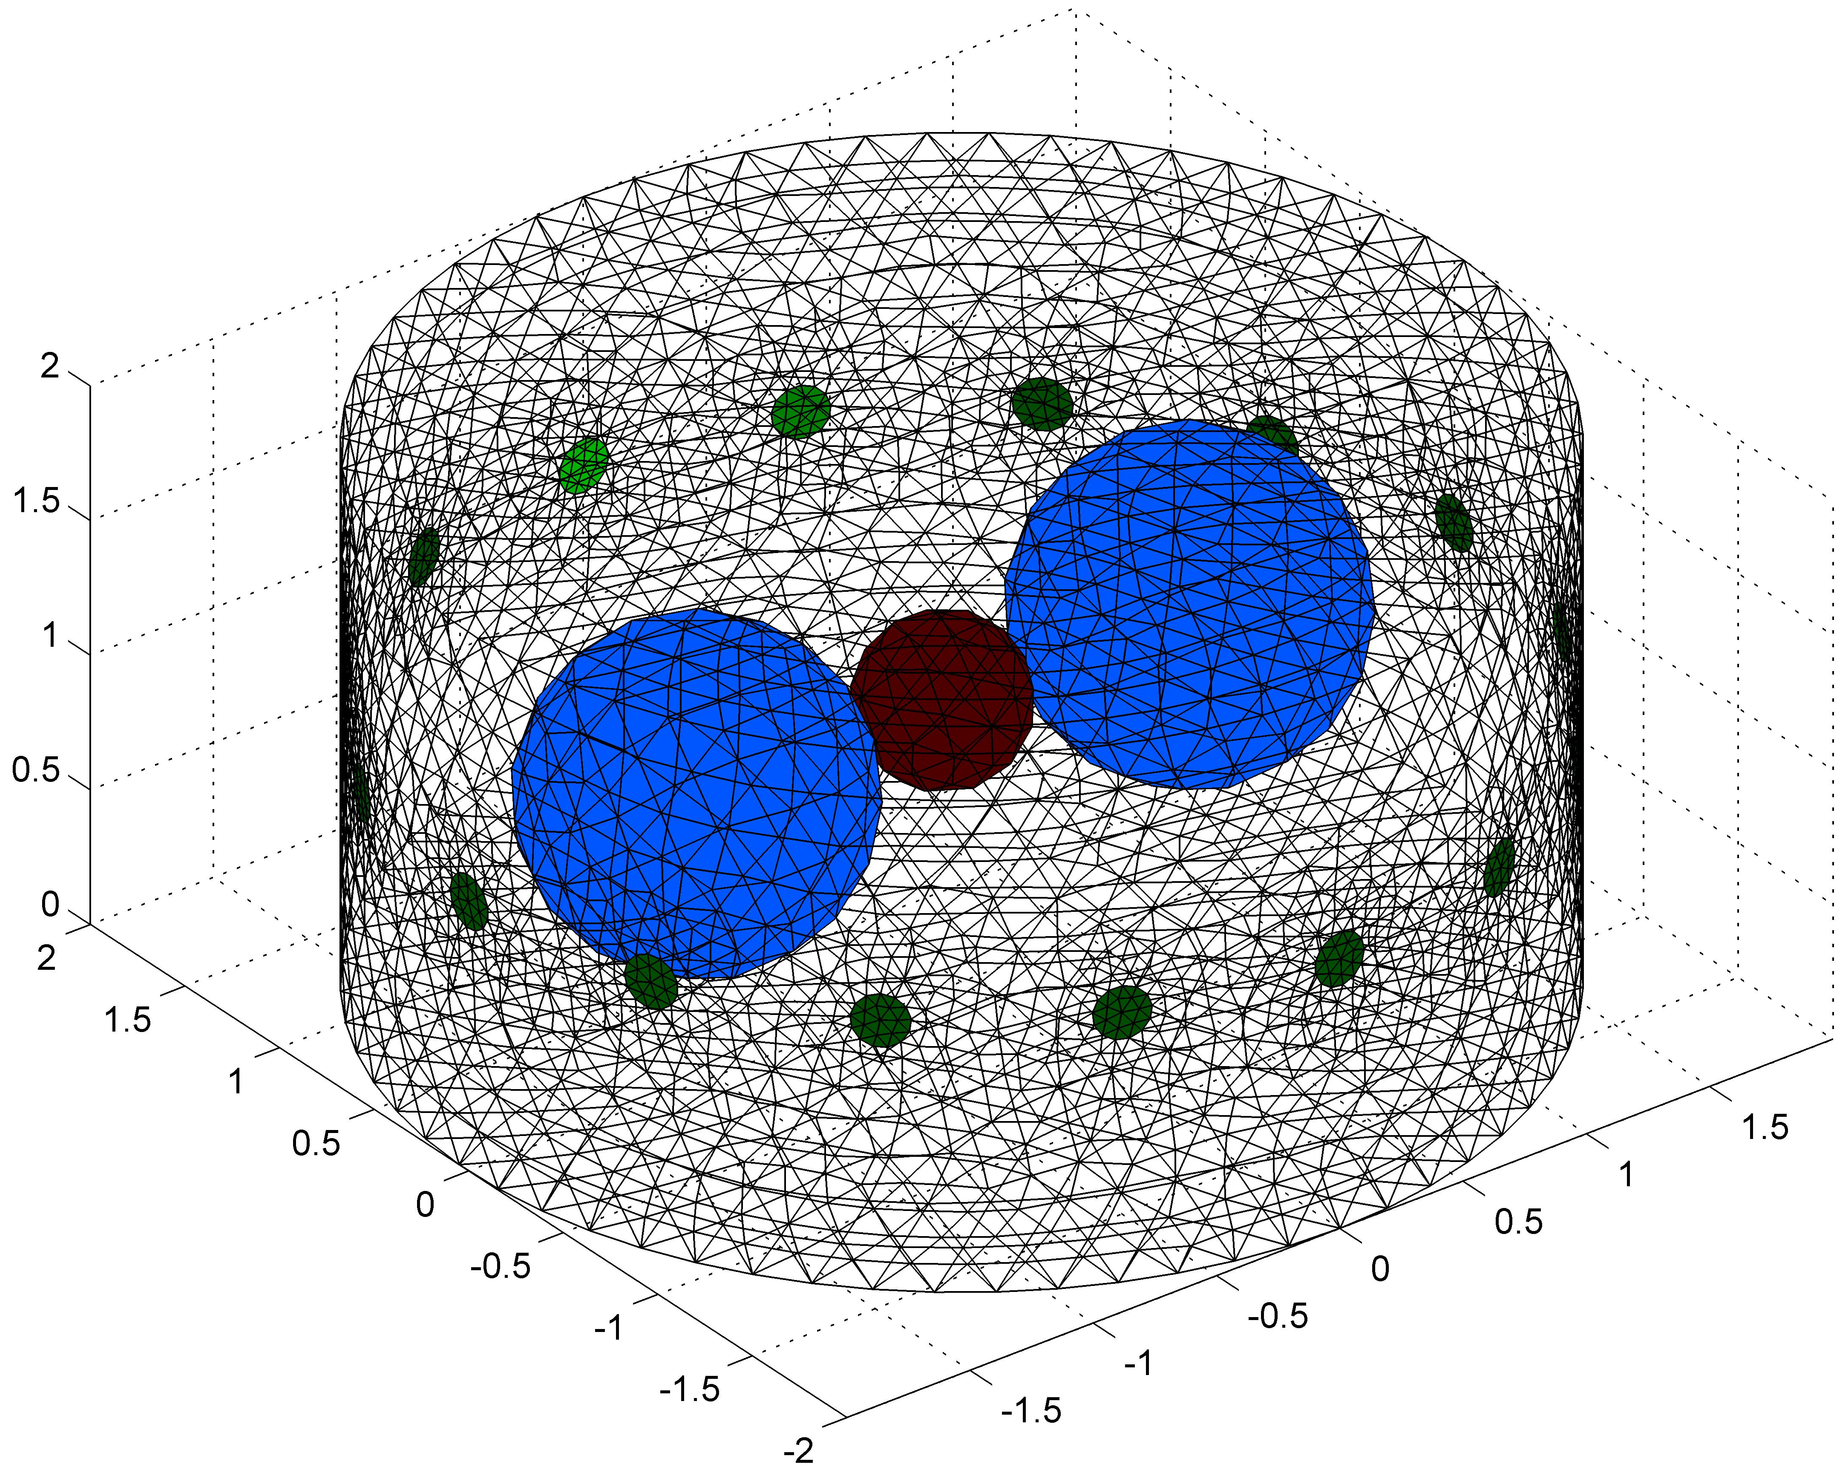
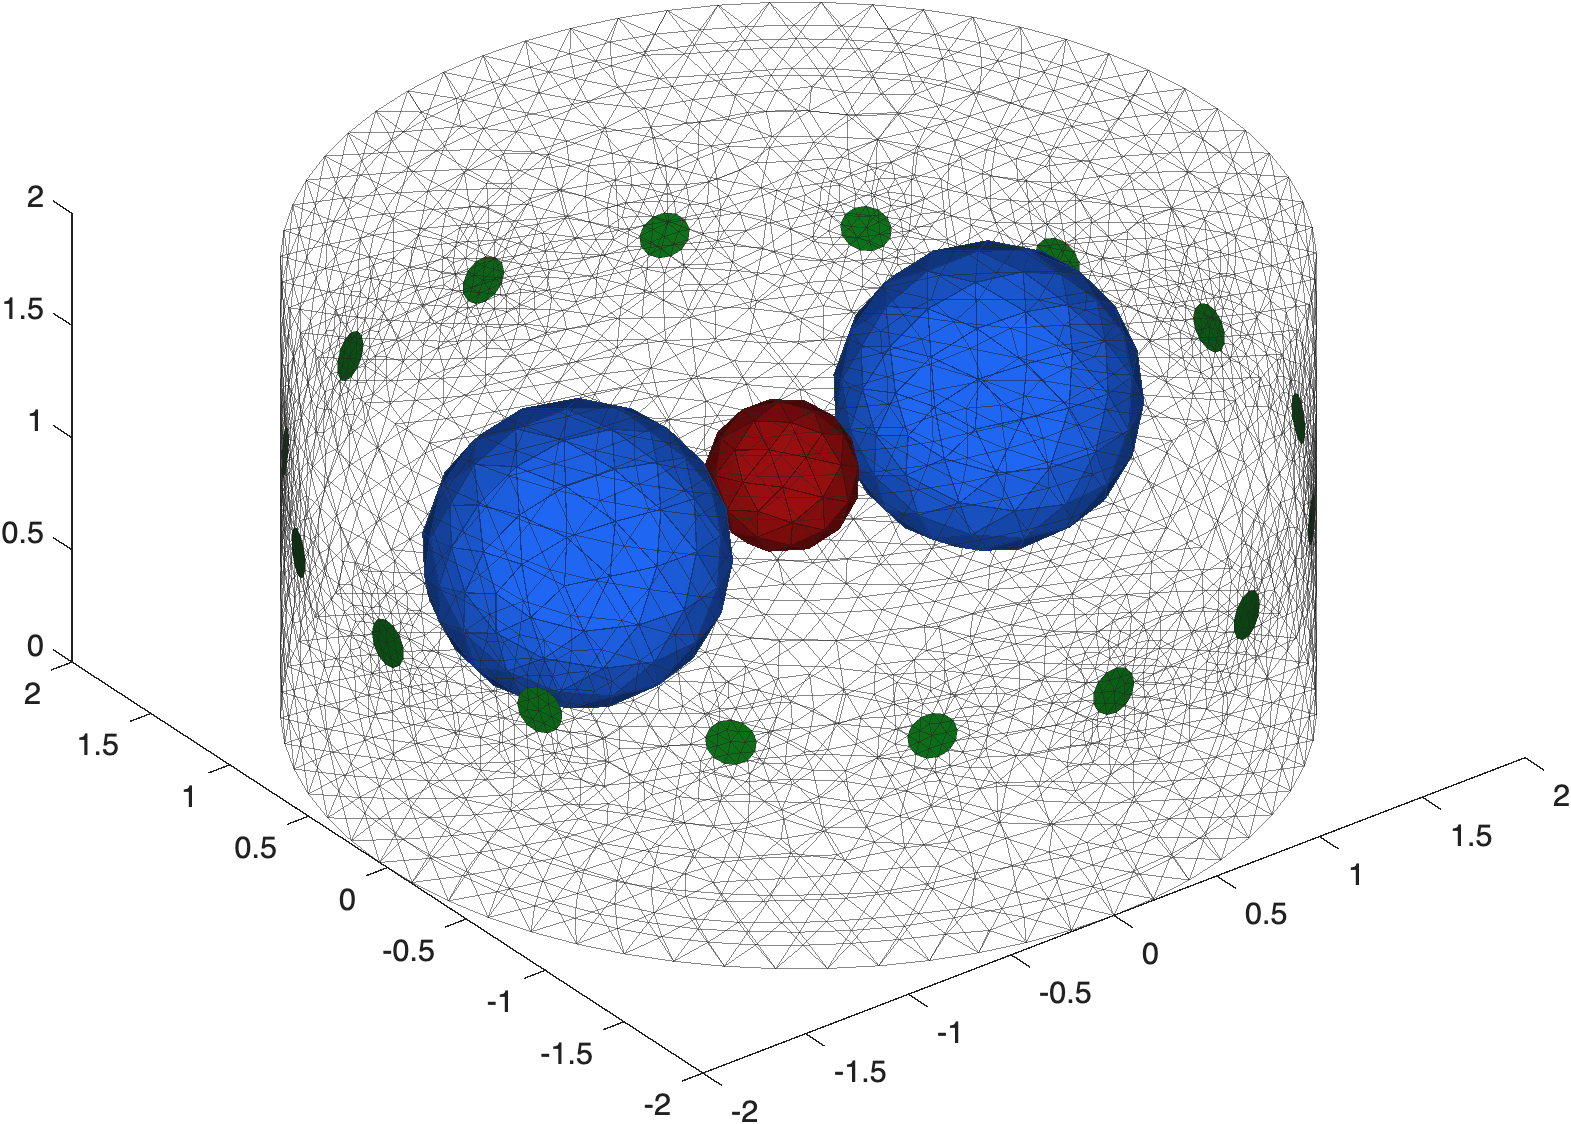
Draw Figure 1(a) from the phantom mesh; stop shipping a previously published render
figures/fig1a_phantom.png, and through it panel (a) of figures/fig_phantom.png
and the phantom in figures/graphical_abstract.png, was the 3-D render first
published as Fig. (2) of Cheng, Su and Ko 2022 (Curr Med Imaging 18:1396,
Bentham), imported by prep_fig1a.m from the authors' slide deck (3bbfda1). It
should not be redistributed here under MIT.

- eit_show_phantom.m: draw3d() now draws panel (a) from the mesh it builds
  (outer surface as wireframe, lungs and heart as solid surfaces filtered to
  their spheres, electrodes as surface patches; inclusion edges as explicit
  segments, because MATLAB's software renderer in batch mode drew two heart
  edges as stray rays). It writes fig1a_phantom.png and the composite. The
  import of an external render is removed.
- prep_fig1a.m removed.
- eit_graphical_abstract.m reads fig1a_phantom.png from the working folder
  explicitly, so a copy elsewhere on the path cannot be picked up.
- figures/: the three images regenerated (MATLAB R2026a, EIDORS v3.8).
  Panels (b) to (e) of Figure 1 have the same content; tick spacing on (e)
  and a few slice pixel edges differ (re-meshing).
- README: Figure 1 row and a note that the submitted manuscript's panel (a)
  is the published render and this repository's is not.

The earlier image remains in the history (3bbfda1 onward). Rewriting history
would change f0ade60 (tag v1.0), which the companion repository cites.

diff --git a/src/eit_show_phantom.m b/src/eit_show_phantom.m
@@ -21,17 +21,13 @@ img06 = build(0.6, RH, SIG_L, SIG_H, stim);
 % show_fem draws stray slivers outside the axes that survive both clipping
 % and rasterisation, so the 3-D views are drawn directly from the mesh with
 % trisurf instead. All geometry is taken from the model itself.
-% Panel (a) may be supplied as a ready-made render. draw3d() below produces
-% one from the mesh, but the authors' own export is clearer at print size, so
-% it is used when present.
-p3d = fullfile(tmp,'a.png');
-ext = 'fig1a_phantom.png';
-if exist(ext,'file')
-    p3d = ext;
-    fprintf('panel (a): using supplied render %s\n', ext);
-else
-    draw3d(img06, p3d);
-end
+% Panel (a) is drawn from the mesh built above by draw3d() and also written on
+% its own as fig1a_phantom.png (used by eit_graphical_abstract). Until
+% 2026-10-31 this panel imported a render first published as Fig. (2) of
+% Cheng, Su and Ko 2022 (Curr Med Imaging 18:1396); that import and
+% prep_fig1a.m were removed so that the repository holds only its own images.
+p3d = fullfile(pwd,'fig1a_phantom.png');
+draw3d(img06, p3d);
 
 %% --- composite -----------------------------------------------------------
 xax = -2:4/63:2;
@@ -95,30 +91,54 @@ function img = build(rl, RH, SIG_L, SIG_H, stim)
 end
 
 function draw3d(img, outfile)
+% Panel (a): the outer surface mesh as a wireframe, the lung and heart regions
+% as solid surfaces, the electrodes as their own surface patches. Drawn from the
+% model built here; no external render is used.
 f = img.fwd_model;  N = f.nodes;
 sig = img.elem_data;
-isL  = abs(sig-0.5) < 1e-9;                % lungs
-isH  = abs(sig-2.0) < 1e-9;                % heart
-
-h = figure('Color','w','Position',[0 0 760 660],'Visible','off');
-% outer surface, translucent
-% Use the boundary Netgen/EIDORS stored: find_boundary() returns fewer faces
-% (5394 vs 5988) and draws stray edges across the axes.
-trisurf(f.boundary, N(:,1),N(:,2),N(:,3), ...
-        'FaceColor',[0.82 0.84 0.88],'FaceAlpha',0.16, ...
-        'EdgeColor',[0.45 0.45 0.5],'EdgeAlpha',0.20); hold on
-% lungs and heart
-trisurf(find_boundary(f.elems(isL,:)), N(:,1),N(:,2),N(:,3), ...
-        'FaceColor',[0.20 0.32 0.80],'FaceAlpha',0.95,'EdgeColor','none');
-trisurf(find_boundary(f.elems(isH,:)), N(:,1),N(:,2),N(:,3), ...
-        'FaceColor',[0.85 0.18 0.18],'FaceAlpha',0.98,'EdgeColor','none');
-% electrodes
-for k = 1:numel(f.electrode)
-    c = mean(N(f.electrode(k).nodes,:),1);
-    plot3(c(1),c(2),c(3),'o','MarkerSize',8, ...
-          'MarkerFaceColor',[0.10 0.62 0.20],'MarkerEdgeColor','k');
+isL = abs(sig-0.5) < 1e-9;  isH = abs(sig-2.0) < 1e-9;
+h = figure('Color','w','Position',[0 0 900 760],'Visible','off');
+ax = axes(h); hold(ax,'on');
+trisurf(f.boundary, N(:,1),N(:,2),N(:,3), 'Parent',ax, ...
+        'FaceColor','none','EdgeColor',[0.15 0.15 0.15],'EdgeAlpha',0.55,'LineWidth',0.35);
+% inclusion surfaces: boundary faces of each region, kept only if every node lies
+% on that sphere (find_boundary also returns a few faces spanning the region)
+sph = {[ 1 0.1 1 0.6], [-1 0.1 1 0.6], [0 0.1 1 0.3]};
+col = {[0.12 0.40 0.95], [0.12 0.40 0.95], [0.60 0.06 0.06]};
+reg = {isL, isL, isH};
+for s = 1:3
+    F  = find_boundary(f.elems(reg{s},:));
+    c  = sph{s}(1:3);  r = sph{s}(4);
+    d  = sqrt(sum((N - c).^2, 2));
+    F  = F(all(abs(d(F) - r) < 0.12*r + 0.02, 2), :);
+    % faces only, then the facet edges as explicit line segments: the software
+    % renderer used in batch mode draws a few heart edges of a patch as long
+    % stray rays, explicit segments do not
+    patch(ax,'Faces',F,'Vertices',N,'FaceColor',col{s},'EdgeColor','none', ...
+          'FaceLighting','flat','AmbientStrength',0.55);
+    E = unique(sort([F(:,[1 2]); F(:,[2 3]); F(:,[3 1])],2),'rows');
+    X = [N(E(:,1),1) N(E(:,2),1) nan(size(E,1),1)].';
+    Y = [N(E(:,1),2) N(E(:,2),2) nan(size(E,1),1)].';
+    Z = [N(E(:,1),3) N(E(:,2),3) nan(size(E,1),1)].';
+    % lift the edges a hair off the surface toward the sphere's outside so they are not hidden
+    plot3(ax, c(1)+(X-c(1))*1.003, c(2)+(Y-c(2))*1.003, c(3)+(Z-c(3))*1.003, '-', ...
+          'Color',col{s}*0.55,'LineWidth',0.4);
 end
-axis equal off; view(-37,20); camlight headlight; lighting gouraud; material dull
-xlim([-2.1 2.1]); ylim([-2.1 2.1]); zlim([-0.05 2.05]);
-exportgraphics(h,outfile,'Resolution',200,'ContentType','image'); close(h);
+for k = 1:numel(f.electrode)
+    en = f.electrode(k).nodes;
+    bf = f.boundary(all(ismember(f.boundary, en),2),:);
+    if isempty(bf)
+        c = mean(N(en,:),1);
+        plot3(ax,c(1),c(2),c(3),'o','MarkerSize',8,'MarkerFaceColor',[0.05 0.45 0.10],'MarkerEdgeColor','k');
+    else
+        trisurf(bf, N(:,1),N(:,2),N(:,3),'Parent',ax,'FaceColor',[0.05 0.45 0.10],'EdgeColor','none');
+    end
+end
+axis(ax,'equal'); view(ax,-37.5,30);
+xlim(ax,[-2 2]); ylim(ax,[-2 2]); zlim(ax,[0 2]);
+grid(ax,'off'); box(ax,'off');
+set(ax,'FontSize',11,'XTick',-2:0.5:2,'YTick',-2:0.5:2,'ZTick',0:0.5:2);
+camlight(ax,'headlight'); material(ax,'dull');
+exportgraphics(h,outfile,'Resolution',200); close(h);
+fprintf('wrote %s\n', outfile);
 end

diff --git a/src/eit_graphical_abstract.m b/src/eit_graphical_abstract.m
@@ -62,9 +62,10 @@ box_ = @(x,y,w,h,str,fs) annotation('textbox',[x y w h],'String',str, ...
 arr = @(x1,y1,x2,y2) annotation('arrow',[x1 x2],[y1 y2],'LineWidth',1.4,'Color',[.25 .40 .70]);
 
 % ---- row 1: phantom -> forward problem -> measured frame ----------------
-if exist('fig1a_phantom.png','file')
+pa = fullfile(pwd,'fig1a_phantom.png');   % written by eit_show_phantom (run it first)
+if isfile(pa)
     axes('Position',[0.025 0.585 0.235 0.355]);
-    imshow(imread('fig1a_phantom.png')); axis off
+    imshow(imread(pa)); axis off
 end
 text(0.5,1.06,'3-D FEM phantom','Units','normalized','HorizontalAlignment','center', ...
      'FontSize',11,'FontWeight','bold');

diff --git a/README.md b/README.md
@@ -101,7 +101,7 @@ means the script lives in `EIT_noise_geometry_pre-registered`.
 
 | Item | Script | Notes |
 |---|---|---|
-| Figure 1 (phantom) | `eit_show_phantom` | panel (a) from `prep_fig1a` → `figures/fig1a_phantom.png` |
+| Figure 1 (phantom) | `eit_show_phantom` | `figures/fig_phantom.png`; panel (a) is drawn from the mesh and also written as `figures/fig1a_phantom.png` (see the note below the table) |
 | Figure 2 (the split, ten rows) | `make_fig2_fig9` | assembles companion `results/p2_separating_component*.mat` and `human_separating_component.mat` from `eit_human_separating_component`; writes `fig2_split_composite.png` and a consistency log |
 | Figure 3 (contract output and centre cuts) | `eit_compare_table1` | `figures/fig_compare_profiles.png` |
 | Figure 4 (DAGAF decomposition of one frame) | `eit_dagaf_images` | `figures/fig_dagaf_components.png` |
@@ -131,6 +131,15 @@ means the script lives in `EIT_noise_geometry_pre-registered`.
 `eit_lung_table` also contains the mask diagnosis of Section 2.6, and
 `eit_graphical_abstract` draws a graphical abstract that is not part of the
 manuscript.
+
+**Figure 1, panel (a).** In the submitted manuscript this panel is a 3-D
+render first published as Fig. (2) of Cheng, Su and Ko 2022 (*Curr Med
+Imaging* 18:1396). Since 31 October 2026 this repository no longer carries that
+image: `eit_show_phantom` draws panel (a) from the phantom mesh it builds, and
+`eit_graphical_abstract` uses the same file. The model is the same (cylinder
+r = 2, h = 2, lungs r = 0.6 at x = ±1, heart r = 0.3, sixteen electrodes); only
+the rendering differs. The other four panels are unchanged in content; MATLAB's
+automatic tick spacing and Netgen's re-meshing can move a few pixel edges.
 
 ## The contract
 
